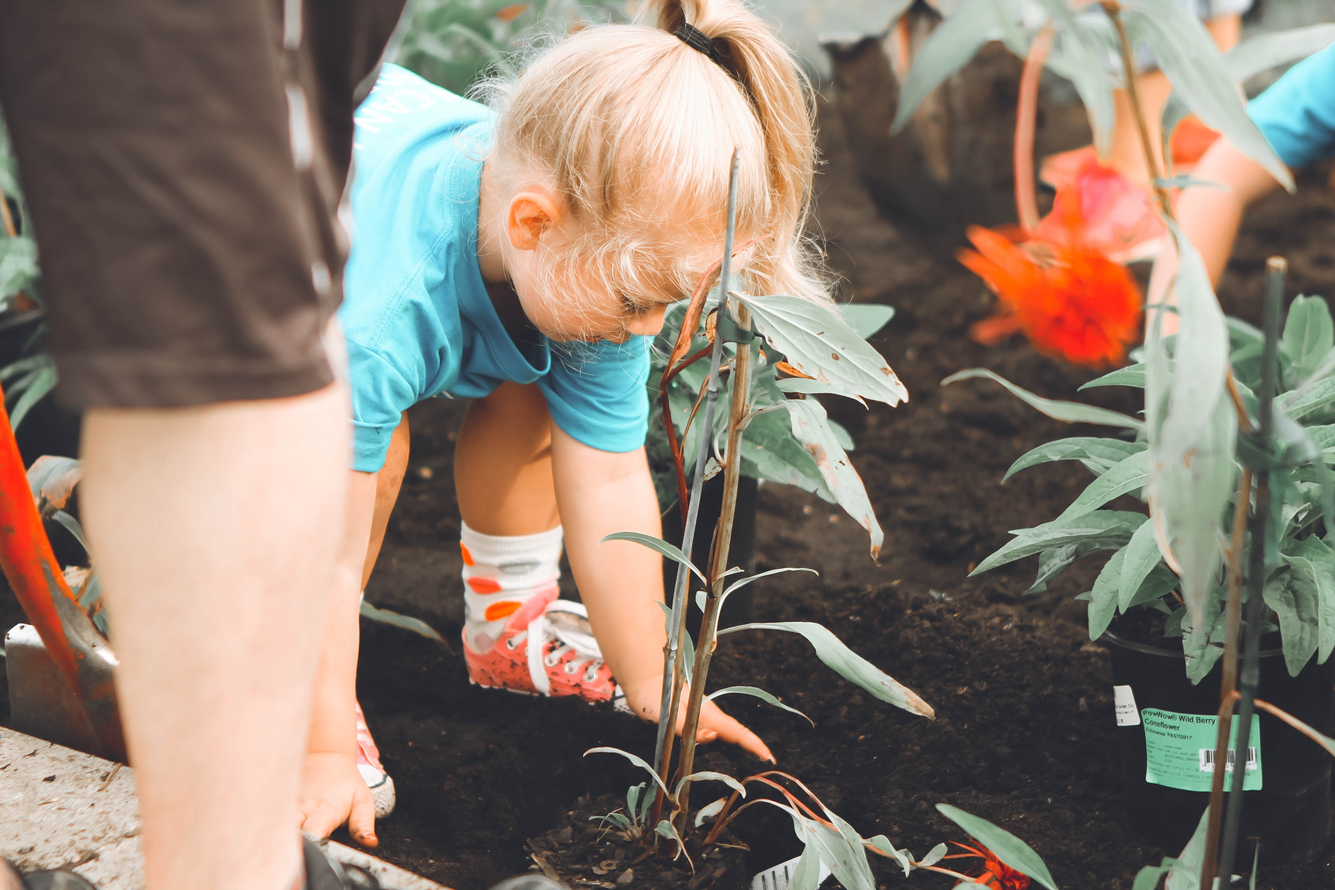
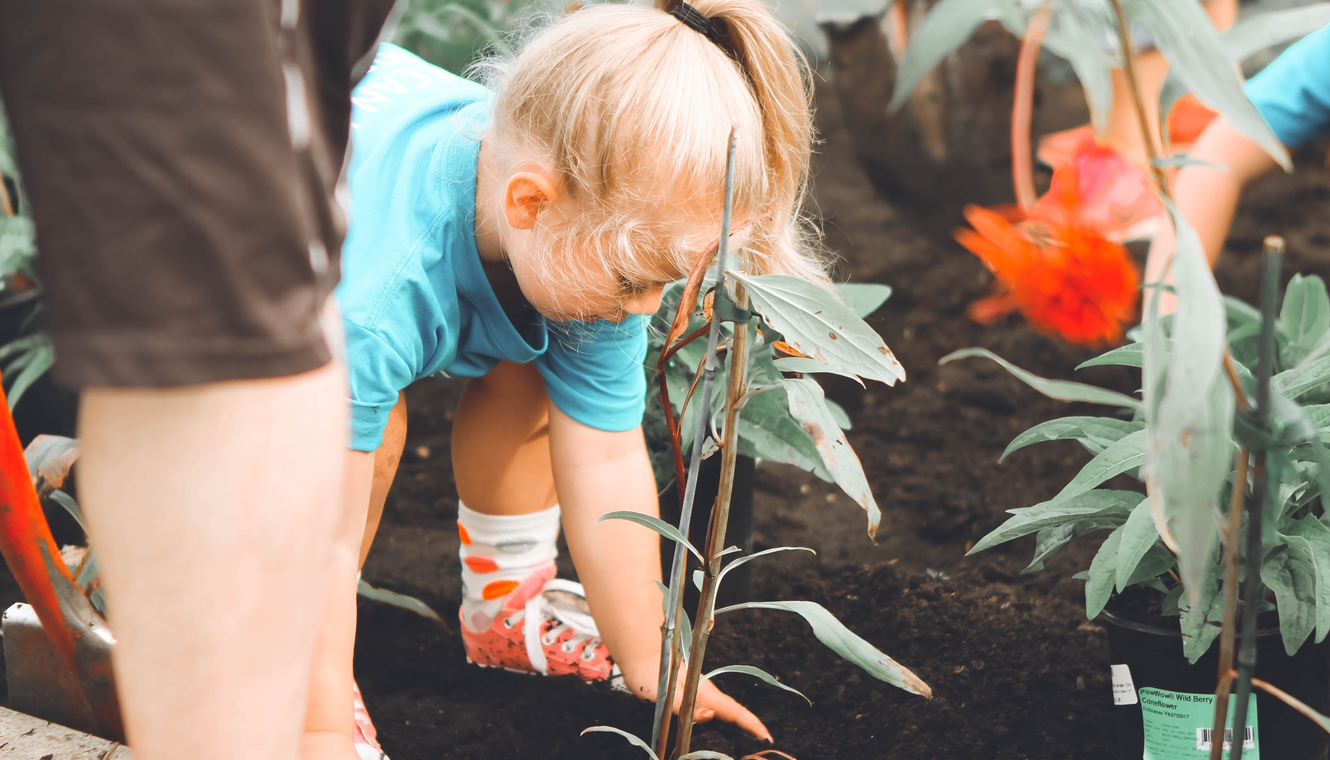
Finished with header. moving on the section one on home page.

diff --git a/css/index.css b/css/index.css
@@ -136,7 +136,12 @@ body {
 h1 {
   font-family: 'Yellowtail', cursive;
   color: white;
-  font-size: 4.5rem;
+  font-size: 6rem;
+}
+@media (max-width: 500px) {
+  h1 {
+    font-size: 5rem;
+  }
 }
 h2,
 h3,
@@ -161,28 +166,47 @@ p {
   margin: 0 auto;
 }
 nav {
-  flex-flow: row nowrap;
-  width: 100%;
-  justify-content: flex-start;
-  align-items: baseline;
-  padding: 1%;
-  margin: 0 auto;
+  display: flex;
+  flex-wrap: wrap;
   background-color: #f04c25;
+  justify-content: space-between;
+  align-items: center;
 }
 nav .logo {
-  width: 20%;
-  padding: 1% 0%;
+  width: 40%;
+  padding: 2%;
+}
+@media (max-width: 500px) {
+  nav .logo {
+    width: 100%;
+    padding: 2%;
+    flex-wrap: wrap;
+    justify-content: center;
+    align-items: center;
+    text-align: center;
+  }
 }
 nav .links {
-  justify-content: space-around;
+  width: 60%;
   text-align: right;
 }
 nav .links a {
   text-decoration: none;
   color: white;
   font-size: 1rem;
-  padding: 2%;
-  font-size: 1.8rem;
+  padding: 6%;
+  font-size: 1.9rem;
+}
+nav .links a:hover {
+  background-color: #404265;
+}
+@media (max-width: 500px) {
+  nav .links {
+    width: 100%;
+    justify-content: space-around;
+    text-align: center;
+    padding: 1%;
+  }
 }
 footer {
   color: #22283B;
@@ -194,7 +218,48 @@ footer {
   justify-content: center;
   align-items: center;
 }
-.main-header {
+.header {
   width: 100%;
-  opacity: 90%;
+}
+.header .main-header {
+  width: 100%;
+  opacity: 60%;
+  background-attachment: fixed;
+  background-size: cover;
+  background-repeat: no-repeat;
+  background-position: center center;
+}
+@media (max-width: 500px) {
+  .header .main-header {
+    display: none;
+  }
+}
+.header .over-img {
+  position: absolute;
+  top: 50%;
+  left: 75%;
+  transform: translate(-50%, -50%);
+}
+.header .over-img .header-text {
+  font-family: 'Alata', sans-serif;
+  font-size: 7rem;
+}
+@media (max-width: 500px) {
+  .header .over-img .header-text {
+    font-size: 4rem;
+  }
+}
+.header .over-img .make-text {
+  font-size: 10rem;
+}
+@media (max-width: 500px) {
+  .header .over-img .make-text {
+    font-size: 6rem;
+  }
+}
+.header .over-img input[type=text] {
+  padding: 4%;
+  margin: 5% 0%;
+  border: none;
+  font-size: 2rem;
 }

diff --git a/less/navigation.less b/less/navigation.less
@@ -1,27 +1,47 @@
 // Navigation code here
 nav{
-    .section-theme(row nowrap, 100%, flex-start, baseline, 1%);
-    margin: 0 auto;
+    display:flex;
+    flex-wrap: wrap;
+    // margin: 0 auto;
     background-color:@nav-bg;
+    justify-content: space-between;
+    align-items: center;
     
 	.logo{
-	width: 20%;
-    // text-align:left;
-	padding:1% 0%;
+        width:40%;
+        padding:2%;
+
+        @media @phone{
+            width:100%;
+            padding:2%;
+            flex-wrap:wrap;
+            justify-content:center;
+            align-items:center;
+            text-align:center;
+        }
 	}
 
 	.links{
-	// width:40%;
-	justify-content:space-around;
-    text-align:right;
-    // padding:1%;
-
+        // padding:1%;
+        width:60%;
+        text-align:right;
+        
 		a{
 			text-decoration:none;
 			color:white;
 			font-size: 1rem;
-            padding: 2%;
-            font-size:1.8rem;
-		}
+            padding: 6%;
+            font-size:1.9rem;
+        }
+        a:hover{
+            background-color:@violet;
+        }
+        
+        @media @phone{
+            width:100%;
+            justify-content:space-around;
+            text-align:center;
+            padding:1%;
+        }
 	}
 }

diff --git a/less/home-page.less b/less/home-page.less
@@ -3,11 +3,55 @@
 
 
 // .home {
-
-.main-header{
+.header{
     width:100%;
-    opacity:90%;
+
+    .main-header{
+        width:100%;
+        opacity:60%;
+        background-attachment:fixed;
+        background-size:cover;
+        background-repeat:no-repeat;
+        background-position:center center;
+
+        @media @phone{
+            .display();
+        }
+    }
+
+    .over-img{
+    position:absolute;
+    top:50%;
+    left:75%;
+    transform: translate(-50%, -50%);
+
+        .header-text{
+            font-family: 'Alata', sans-serif;
+            font-size: 7rem;
+
+        @media @phone{
+            font-size:4rem;
+        }
+        }
+
+        .make-text{
+            font-size:10rem;
+
+        @media @phone{
+            font-size:6rem;
+        }
+        }
+
+        input[type=text]{
+            padding:4%;
+            margin:5% 0%;
+            border:none;
+            font-size:2rem;
+        }
+    }
+
 }
+
 
 
 // .intro {

diff --git a/index.html b/index.html
@@ -24,11 +24,16 @@
         </div>
     </nav>
 <header class="header">
-<img class="main-header" src="../img/kid.jpg">
-<h2>Let's Make Something!</h2>
-
+    <img class="main-header" src="../img/kid.jpg">
+    <div class="over-img">
+        <h2 class="header-text">Let's <h2 class="make-text">Make</h2> <h2 class="header-text">Something!</h2>
+        <input type="text" placeholder="Zipcode or City, State">
+    </div>
 </header>
+<section>
 
+    
+</section>
 
 
 

diff --git a/less/global.less b/less/global.less
@@ -15,7 +15,11 @@ color: @main-font-color;
 h1{
     font-family: 'Yellowtail', cursive;
     color: white;
-    font-size:4.5rem;
+    font-size:6rem;
+
+    @media @phone{
+        font-size:5rem;
+    }
 }
 
 h2, h3, h4, h5 {

diff --git a/less/mixins.less b/less/mixins.less
@@ -2,7 +2,7 @@
 
 //SECTION THEMES
 .section-theme(@direction, @width, @justify, @align, @padding){
-	flex-flow: @direction;
+	flex-direction: @direction;
 	width: @width;
 	justify-content: @justify;
 	align-items: @align;
